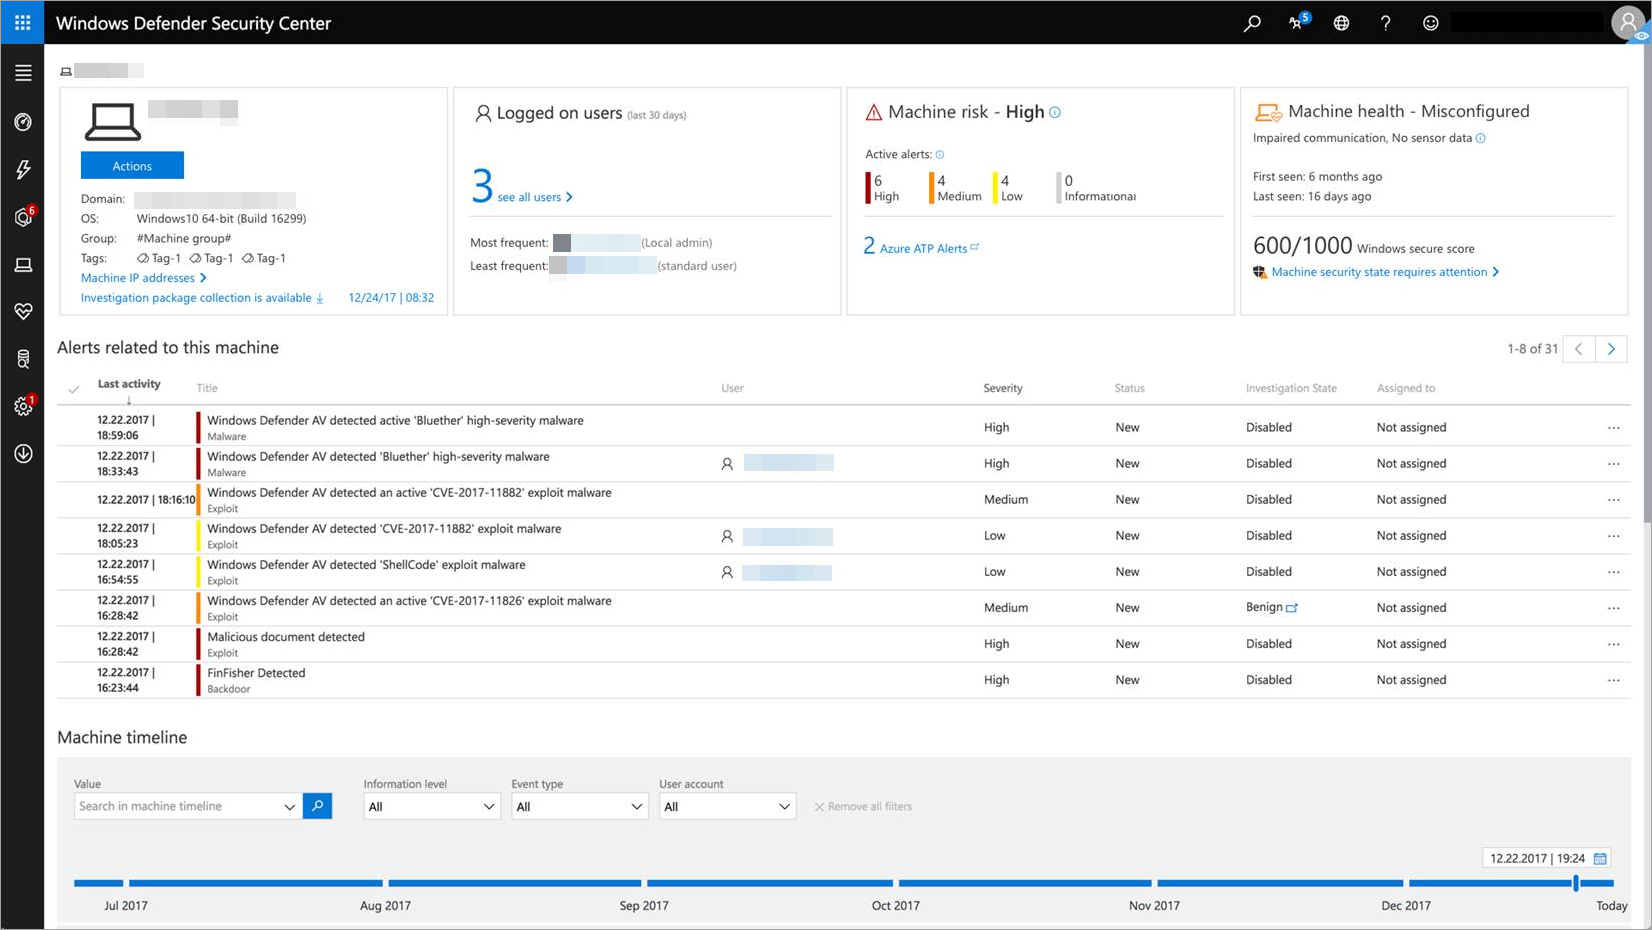
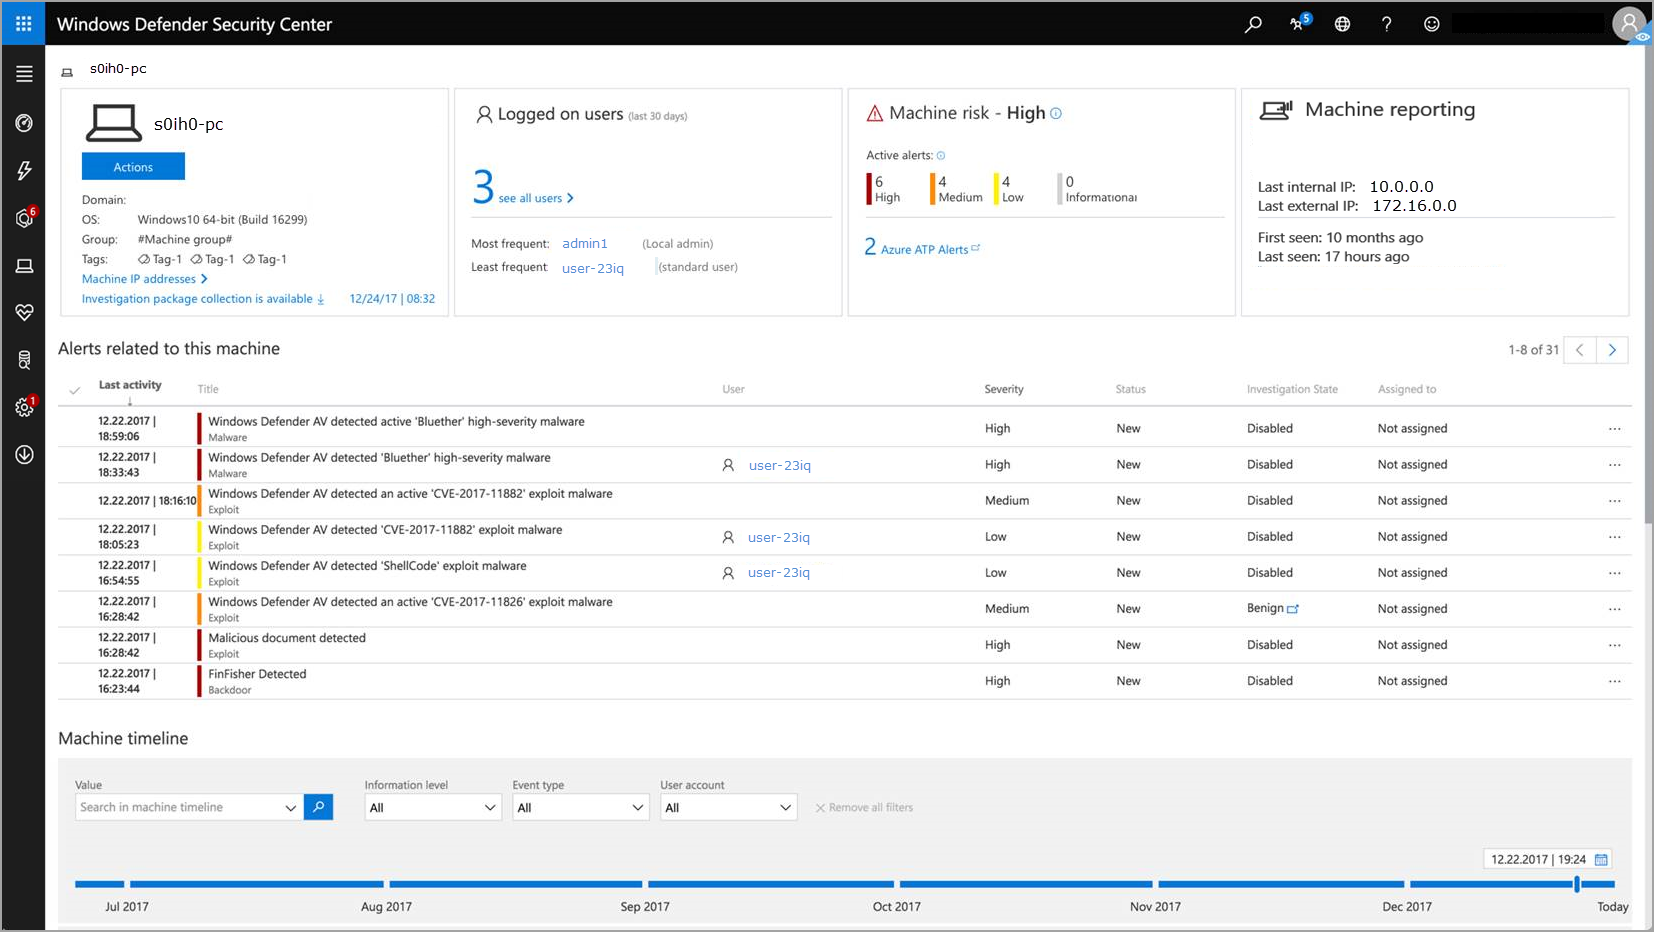
update image for machine and user investigation

diff --git a/windows/security/threat-protection/windows-defender-atp/investigate-user-windows-defender-advanced-threat-protection.md b/windows/security/threat-protection/windows-defender-atp/investigate-user-windows-defender-advanced-threat-protection.md
@@ -37,7 +37,7 @@ When you investigate a user account entity, you'll see:
 - Alerts related to this user
 - Observed in organization (machines logged on to)
 
-![Image of the user account entity details page](images/atp-user-details-view-tdp.png)
+![Image of the user account entity details page](images/atp-user-details-view-azureatp.png)
 
 The user account entity details, Azure ATP alerts, and logged on machines sections display various attributes about the user account.
 
